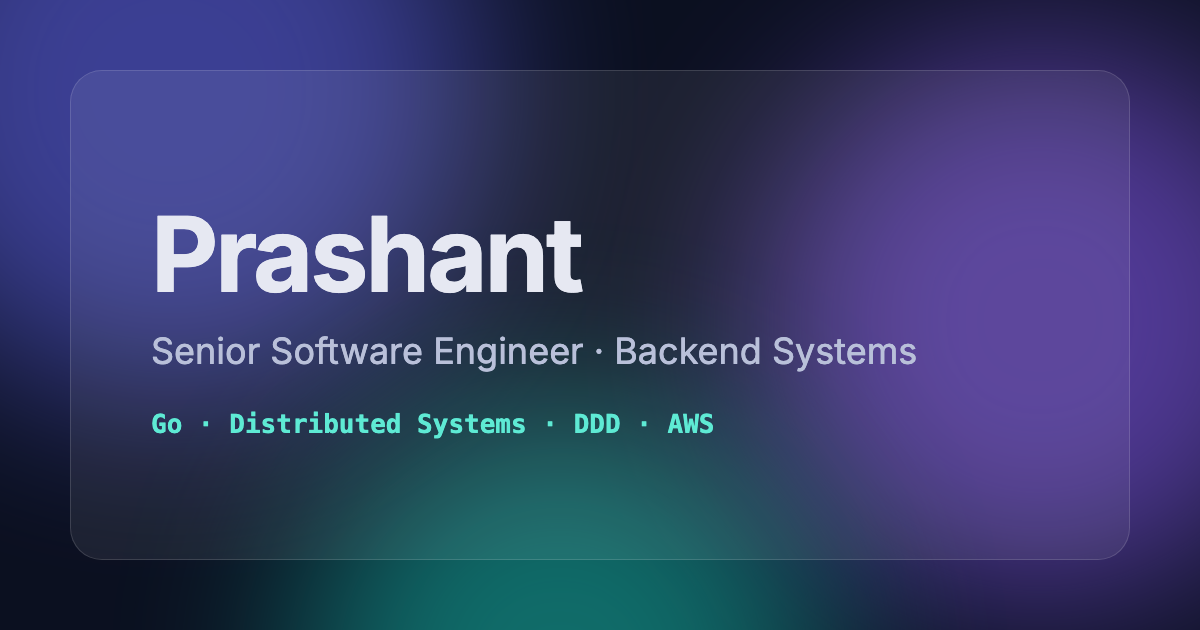
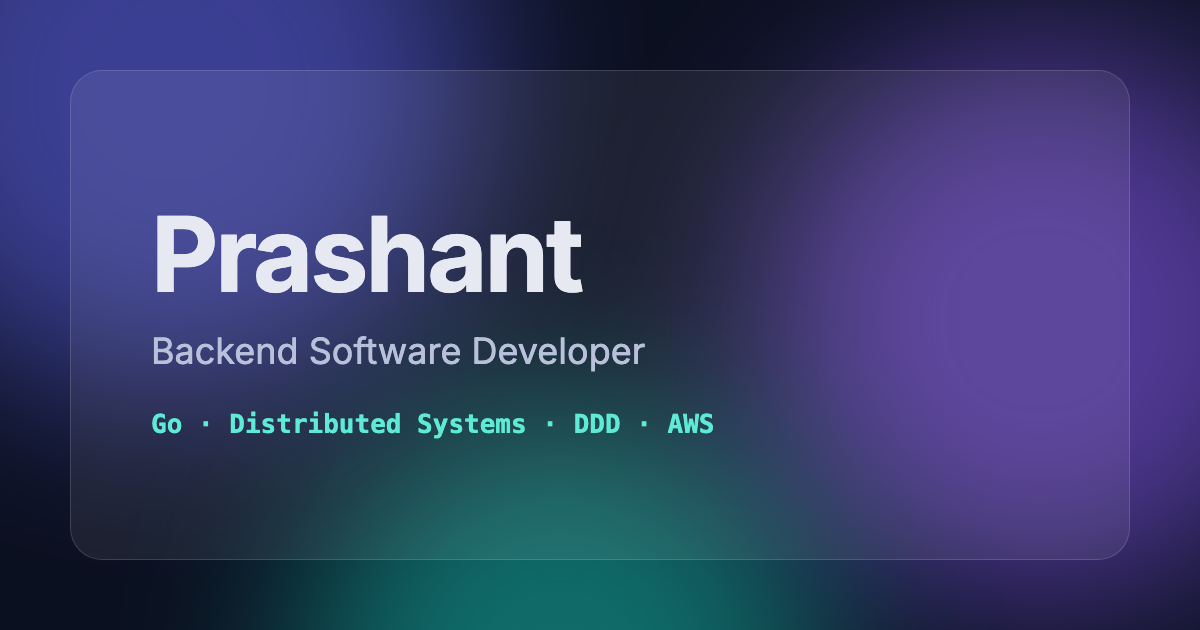
content: generalise headline to Backend Software Developer
Hero, page titles, footer and share image now say "Backend Software
Developer". Job titles in Experience and the promotion in Recognition keep
the real title, matching the resume.

Changed region(s): [[0.1233, 0.5127, 0.7708, 0.6032]]

diff --git a/assets/og-card.html b/assets/og-card.html
@@ -11,5 +11,5 @@ p { font-size: 36px; margin: 12px 0 0; color: #b9c0d9; }
 <div class="blob" style="width:620px;height:620px;background:#6366f1;left:-140px;top:-220px"></div>
 <div class="blob" style="width:560px;height:560px;background:#8b5cf6;right:-120px;top:40px"></div>
 <div class="blob" style="width:520px;height:520px;background:#14b8a6;left:300px;bottom:-300px"></div>
-<div class="card"><h1>Prashant</h1><p>Senior Software Engineer · Backend Systems</p><div class="tags">Go · Distributed Systems · DDD · AWS</div></div>
+<div class="card"><h1>Prashant</h1><p>Backend Software Developer</p><div class="tags">Go · Distributed Systems · DDD · AWS</div></div>
 </body></html>

diff --git a/content/case-studies/ddd-migration.md b/content/case-studies/ddd-migration.md
@@ -11,7 +11,7 @@ The lending systems had grown as a tightly coupled monolith, supporting multiple
 
 ## What I did
 
-As a Senior Software Engineer, I led the migration of these lending systems to a **Domain-Driven Design** model, introducing three dedicated layers:
+At KreditBee, I led the migration of these lending systems to a **Domain-Driven Design** model, introducing three dedicated layers:
 
 - **Domain layer**: the core lending concepts and business rules.
 - **Service layer**: the use cases that orchestrate those rules for each product flow.
